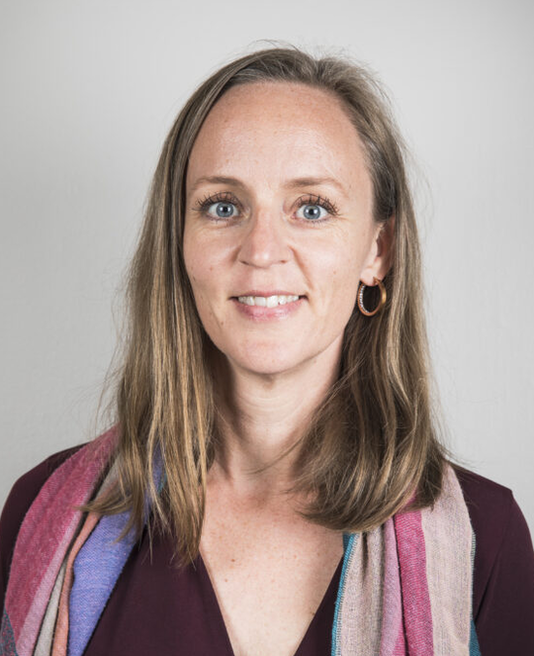
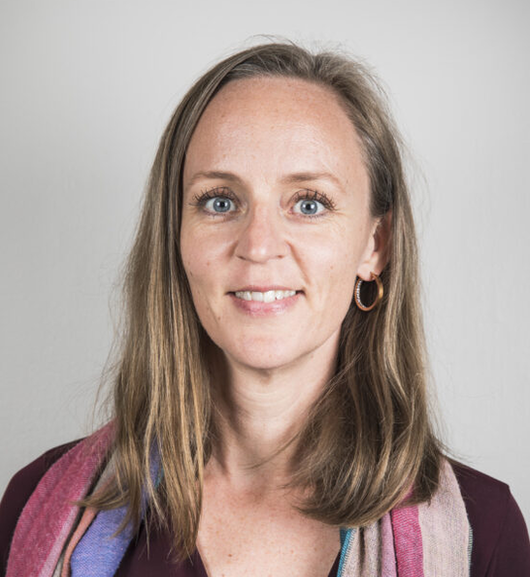
New pic for Sebbe, recropping of all pics to not be cut off

diff --git a/pmp-frontend-app/src/content/content.ts b/pmp-frontend-app/src/content/content.ts
@@ -1,5 +1,5 @@
 import NatTeamPic from '../assets/TeamPics/NatTeamPic.jpg';
-import SebTeamPic from '../assets/TeamPics/SebTeamPic.jpg';
+import SebTeamPic from '../assets/TeamPics/SebTeamPic.png';
 import JanTeamPic from '../assets/TeamPics/JanTeamPic.jpg';
 import MarTeamPic from '../assets/TeamPics/MarTeamPic.png';
 import SamTeamPic from '../assets/TeamPics/SamTeamPic.jpg';
